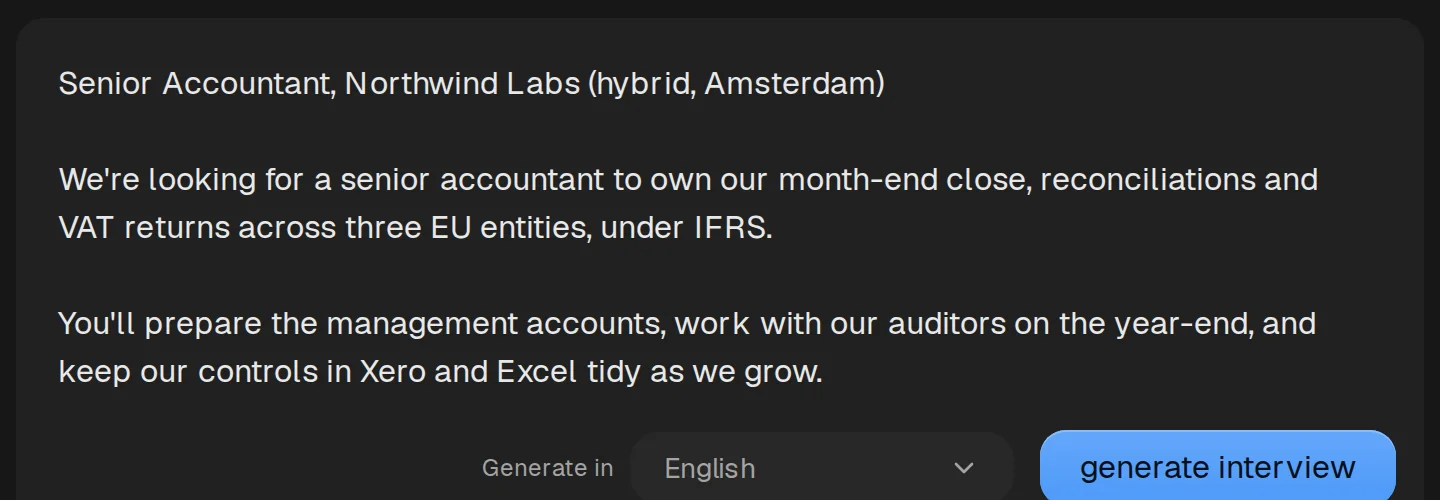
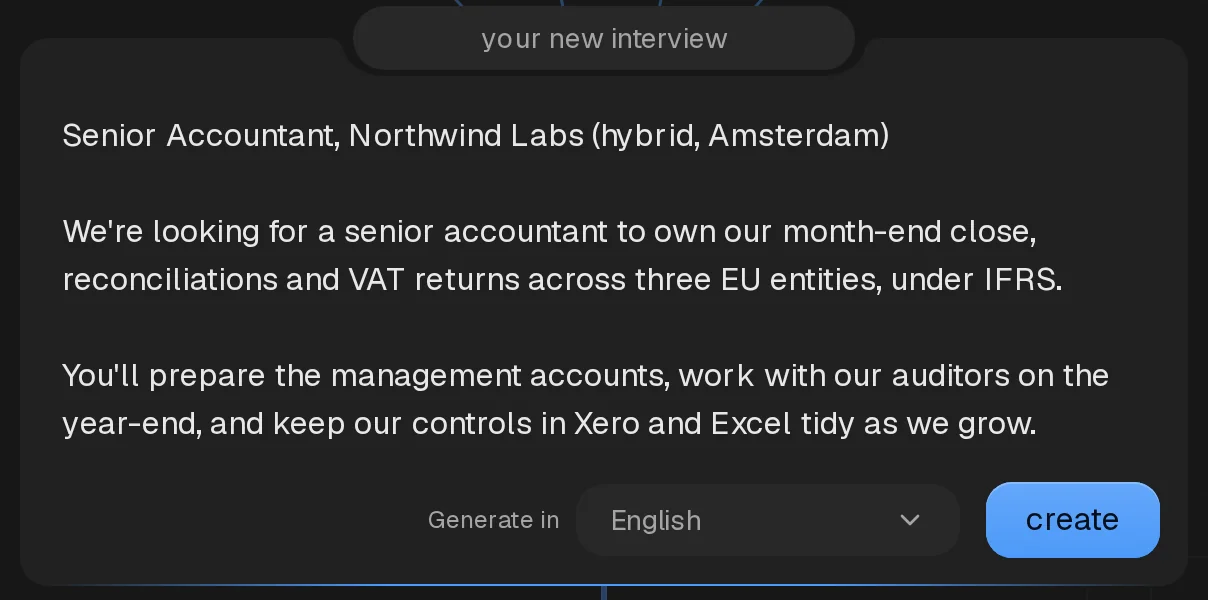
Show the home page input in the hiring flow
The Describe the job picture came from the new interview page, cropped
too tight, so it lacked the pill and button buyers see on the home
page. It now shows that input, with room around it.

diff --git a/e2e_tests/signed-in/specs/zz-flow-shots.spec.ts b/e2e_tests/signed-in/specs/zz-flow-shots.spec.ts
@@ -14,7 +14,7 @@ import {
 import { openDialog, visit } from "../helpers/navigation"
 import { ownerEmail, throwawayEmail } from "../helpers/users"
 
-// The job description pasted on the new interview page in the hiring flow's first picture.
+// The job description pasted on the home page in the hiring flow's first picture.
 const SHOT_DESCRIPTION = `Senior Accountant, Northwind Labs (hybrid, Amsterdam)
 
 We're looking for a senior accountant to own our month-end close, reconciliations and VAT returns across three EU entities, under IFRS.
@@ -32,11 +32,10 @@ test.use({ deviceScaleFactor: 2, viewport: SHOT_VIEWPORT })
 // One after the other: both make "Northwind Labs", and company names are unique across testee.
 test.describe.configure({ mode: "serial" })
 
-// The hiring flow's first step: the new interview page's box with a job description pasted.
+// The hiring flow's first step: the home page's box with a job description pasted.
 test("hiring flow: a job description", async ({ signInAs }) => {
   const owner = await signInAs(ownerEmail(), undefined, "Alex Morgan")
-  const company = await createCompany(owner, "Northwind Labs")
-  await visit(owner, `/companies/${company.id}/interviews/new`)
+  await visit(owner, "/")
   await owner.getByRole("main").getByRole("textbox").first().fill(SHOT_DESCRIPTION)
   await pair(owner, "create")
 })

diff --git a/frontend/src/config/features-shots.ts b/frontend/src/config/features-shots.ts
@@ -25,7 +25,7 @@ export const FEATURE_SHOTS = {
   "flow-candidates": { width: 2000, height: 1310 },
   "flow-share": { width: 1024, height: 870 },
   "flow-report": { width: 2520, height: 2640 },
-  create: { width: 1440, height: 500 },
+  create: { width: 1208, height: 600 },
 } as const
 
 export type FeatureShotName = keyof typeof FEATURE_SHOTS
